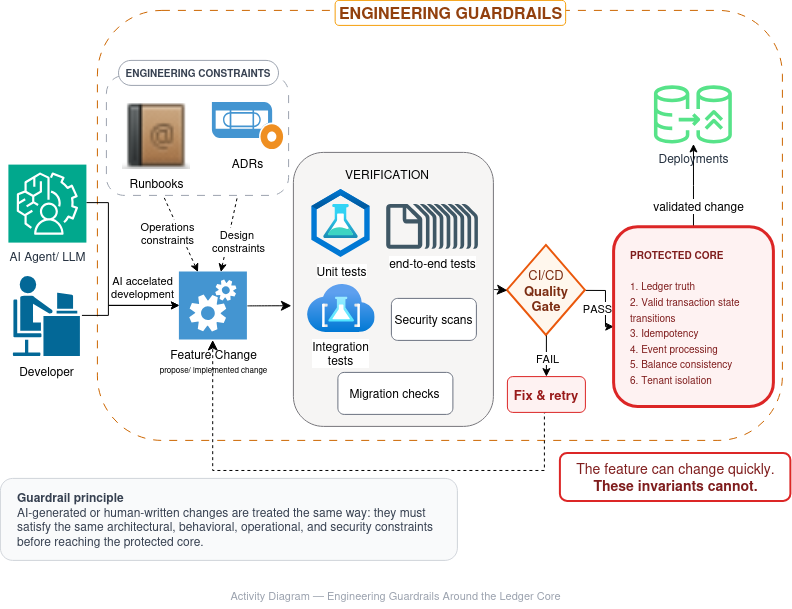
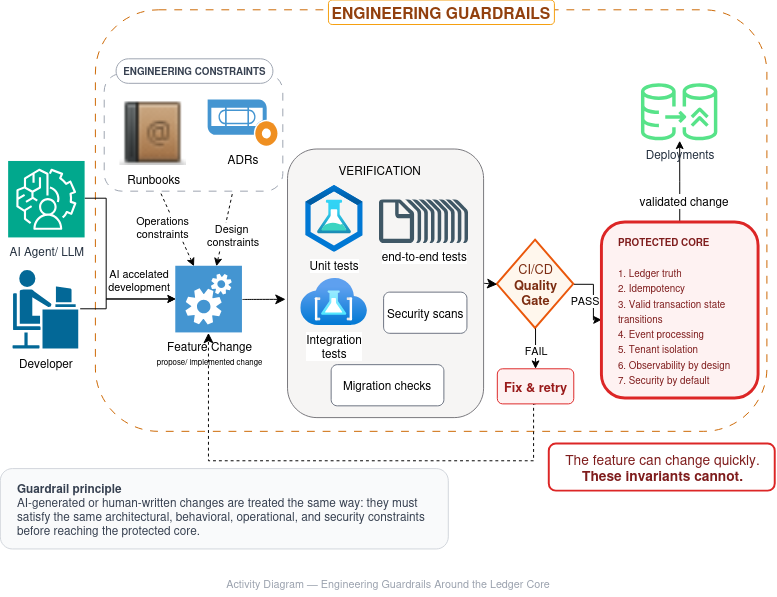
Updated documents with details of recent works

diff --git a/docs/ROADMAP.md b/docs/ROADMAP.md
@@ -100,22 +100,22 @@ feature.
 
 ## Phase 2 — Threat model & security posture
 
-- [ ] `docs/security/threat-model.md` — STRIDE-style pass over: JWT auth,
+- [x] `docs/security/threat-model.md` — STRIDE-style pass over: JWT auth,
   API-key auth, wallet custody key handling (KMS), multi-tenant data
   isolation, RPC provider trust boundary
-- [ ] Document what is explicitly **out of scope** / accepted risk — this is
+- [x] Document what is explicitly **out of scope** / accepted risk — this is
   what separates a real threat model from a checklist
 
 ## Phase 3 — Capacity, load, and scale story
 
-- [ ] k6 (or autocannon) load-test scripts against the transaction
+- [x] k6 (or autocannon) load-test scripts against the transaction
   submission + confirmation flow, checked into `load-test/`
-- [ ] `docs/capacity-planning.md`: current single-instance throughput
+- [x] `docs/capacity-planning.md`: current single-instance throughput
   ceiling, first bottleneck (RPC rate limits vs. DB connection pool vs.
   queue backpressure), and the specific change that raises each ceiling
-- [ ] Document the multi-tenant scaling axis explicitly — what changes at
-  10x tenants vs. 10x transactions-per-tenant (these are different
-  scaling problems and conflating them is a common senior-level mistake)
+- [ ] `docs/capacity-planning.md` has a section titled "Multi-tenant scaling
+  axis (not yet measured)" that honestly names the gap, but the actual
+  measurement/analysis is still open.
 
 ## Phase 4 — Operational maturity
 
@@ -173,18 +173,22 @@ Follow-ups surfaced by this phase, not yet done:
 - [ ] Add real architecture/sequence diagrams (not ASCII) for: transaction
   lifecycle including worker-crash recovery, and the multi-tenant
   request path
+- a Mermaid architecture diagram and a draw.io system-overview diagram
+  exist now (`docs/architecture.md`, `docs/images/system.drawio.png`),
+  but neither is the specific sequence-diagram-over-time view this item
+  asks for (crash recovery, multi-tenant request path) — still open.
 - [ ] One public-style case-study write-up (suitable for a blog post or a
   "notable projects" portfolio page) on the postgres-scheduler-lease
   decision — it's the most interesting trade-off in the repo and is
   currently under-sold as ADR-004
-- [ ] Write ADR-007 for the transactional outbox (Phase 0): why outbox over
+- [x] Write ADR-007 for the transactional outbox (Phase 0): why outbox over
   publishing directly from the confirmation processor, why BullMQ over a
   dedicated event bus at this scale, and the explicit call to stop at "no
   consumer yet" rather than build unrequested webhook delivery. Every
   other Phase 0/1 decision has an ADR; this one doesn't yet, and a
   reviewer who checked incident 001 by grepping the codebase (see below)
   would just as easily notice this gap.
-
+  Done — `docs/decisions/007-transactional-outbox.md`.
 ---
 
 ## What NOT to do

diff --git a/README.md b/README.md
@@ -48,7 +48,7 @@ A backend platform modeling real blockchain transaction infrastructure:
 Built with **Node.js, TypeScript, Fastify, PostgreSQL, Prisma, and viem**,
 applying enterprise engineering practices: separation of concerns,
 idempotency at the persistence boundary, structured logging, metrics, and
-test-driven development (72 test files across unit, integration, and
+test-driven development (61 test files across unit, integration, and
 resilience suites).
 
 ## Known gaps (tracked, not hidden)
@@ -119,15 +119,17 @@ To maintain ledger integrity, all system modifications—whether authored by dev
 #### The Protected Core Invariants
 While application features, APIs, and tooling can evolve rapidly, the core transaction engine strictly enforces these six static invariants that cannot change:
 1. **Ledger truth** — Persistent deterministic ledger accounting.
-2. **Valid transaction state transitions** — FSM-enforced lifecycle paths.
-3. **Idempotency** — Multi-layered double-credit prevention boundaries.
+2. **Idempotency** — Multi-layered double-credit prevention boundaries.
+3. **Valid transaction state transitions** — FSM-enforced lifecycle paths.
 4. **Event processing** — Tracked cursor replay indexing.
-5. **Balance consistency** — Synchronized point-in-time snapshots.
-6. **Tenant isolation** — Multi-tenant database boundary verification.
+5. **Tenant isolation** — Multi-tenant database boundary verification.
+6. **Observability by design** — Treating system visibility as a core architectural requirement.
+7. **Security by default** - Architecting a system so that its most secure settings are the baseline, non-negotiable standard
+
 
 #### The Verification Pipeline
 Every feature change undergoes automated operations and architectural design constraints evaluation:
-* **Unit & Integration Tests** — Continuous safety validation (72 test suites).
+* **Unit & Integration Tests** — Continuous safety validation (61 test suites).
 * **Security Scans & Migration Checks** — Secret detection and database schema safety gates.
 * **CI/CD Quality Gate** — Hard pass/fail condition blocking unsafe deploy
 

diff --git a/docs/development.md b/docs/development.md
@@ -26,7 +26,7 @@ Before starting development, install:
 Recommended:
 
 ```text
-Node.js 23+
+Node.js 24+
 ```
 
 Verify:
